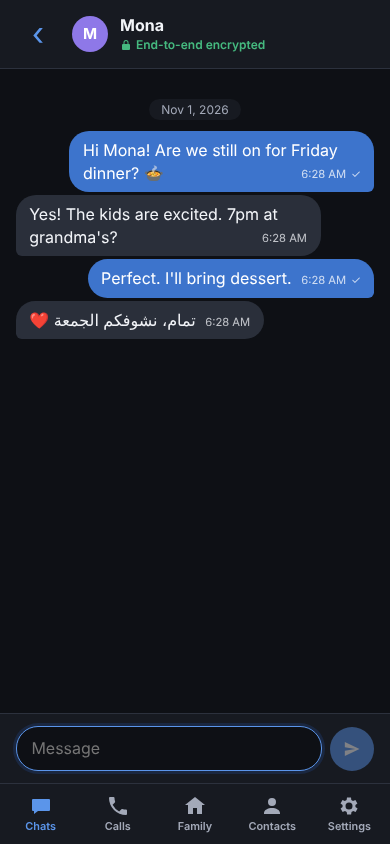
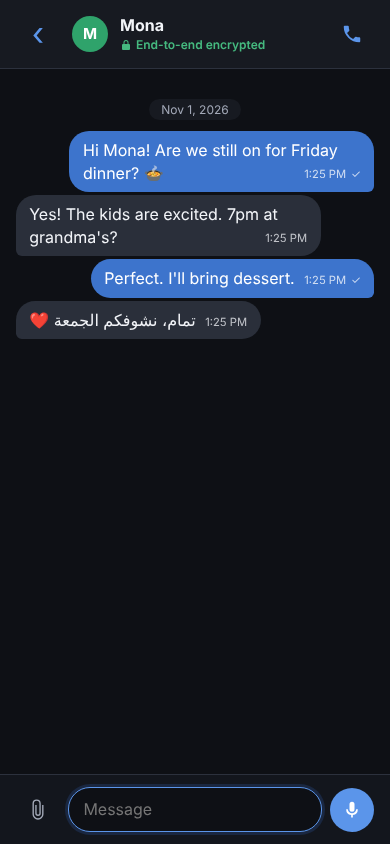
Liquid Glass style: floating translucent tab bar, glass cards and bars, press feedback, safe areas
Claude-Session: https://claude.ai/code/session_01Nv2H49QyHLLrTVXWAwPtyG

diff --git a/apps/web/src/styles.css b/apps/web/src/styles.css
@@ -243,3 +243,40 @@ input:focus, textarea:focus { border-color: var(--color-accent); outline: none; 
 .call-btn.accept { background: #30a46c; animation: pulse 1.2s infinite; }
 .call-btn.mute { background: rgb(255 255 255 / 0.18); }
 .call-btn.mute.on { background: #fff; color: #1f3c73; }
+
+/* ── Liquid Glass look (phone layout / in-app) ────────────────────────── */
+html, body { -webkit-tap-highlight-color: transparent; overscroll-behavior: none; }
+.tab, .btn, .tabbar, .pane-header h1 { -webkit-user-select: none; user-select: none; -webkit-touch-callout: none; }
+.btn, .tab, .conv-row, .card { transition: transform 140ms ease, background-color 160ms ease; }
+.btn:active, .tab:active, .conv-row:active { transform: scale(0.96); }
+.card {
+  background: color-mix(in srgb, var(--color-surface) 72%, transparent);
+  -webkit-backdrop-filter: blur(24px) saturate(180%); backdrop-filter: blur(24px) saturate(180%);
+  border: 1px solid color-mix(in srgb, #fff 14%, transparent);
+  box-shadow: inset 0 1px 0 color-mix(in srgb, #fff 18%, transparent), 0 8px 30px rgb(0 0 0 / 0.12);
+  border-radius: 24px;
+}
+@media (max-width: 760px) {
+  .shell { flex-direction: column; position: relative;
+    background: radial-gradient(700px 420px at 100% -10%, color-mix(in srgb, var(--color-accent) 22%, transparent), transparent 65%),
+                radial-gradient(600px 400px at -10% 110%, color-mix(in srgb, var(--color-lavender) 40%, transparent), transparent 65%),
+                var(--color-background); }
+  .content { padding-top: env(safe-area-inset-top); padding-bottom: calc(96px + env(safe-area-inset-bottom)); }
+  .split .list-pane, .list-pane { background: transparent; }
+  .tabbar {
+    position: fixed; z-index: 50; left: 12px; right: 12px; bottom: calc(10px + env(safe-area-inset-bottom));
+    width: auto; padding: 6px; border-radius: 32px; border: 1px solid color-mix(in srgb, #fff 18%, transparent);
+    background: color-mix(in srgb, var(--color-surface) 55%, transparent);
+    -webkit-backdrop-filter: blur(28px) saturate(200%); backdrop-filter: blur(28px) saturate(200%);
+    box-shadow: inset 0 1px 0 color-mix(in srgb, #fff 25%, transparent), 0 12px 40px rgb(0 0 0 / 0.28);
+  }
+  .tab { border-radius: 26px; min-height: 52px; }
+  .tab.active { background: color-mix(in srgb, var(--color-accent) 18%, transparent); color: var(--color-accent); }
+  .split.has-detail ~ .tabbar, .shell:has(.split.has-detail) .tabbar { display: none; }
+  .shell:has(.split.has-detail) .content { padding-bottom: 0; }
+  .composer, .chat-header {
+    background: color-mix(in srgb, var(--color-surface) 65%, transparent);
+    -webkit-backdrop-filter: blur(24px) saturate(180%); backdrop-filter: blur(24px) saturate(180%);
+  }
+  .pane-header h1 { font-size: 2rem; letter-spacing: -0.02em; }
+}
